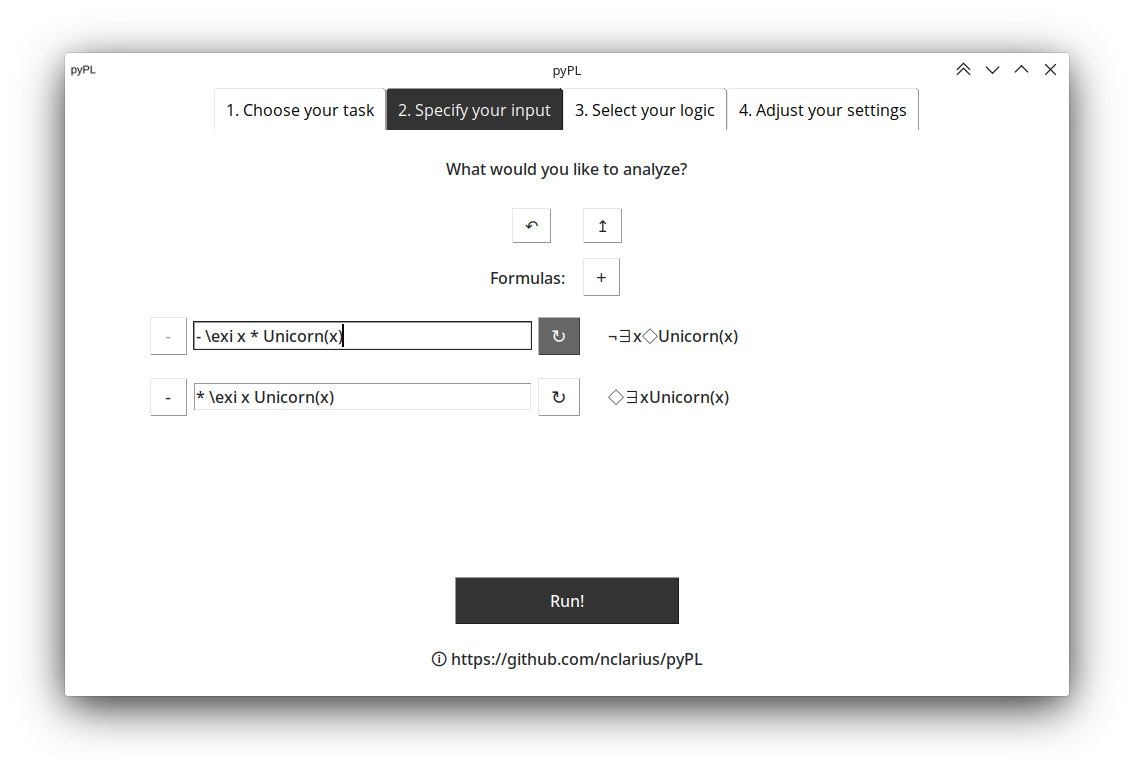
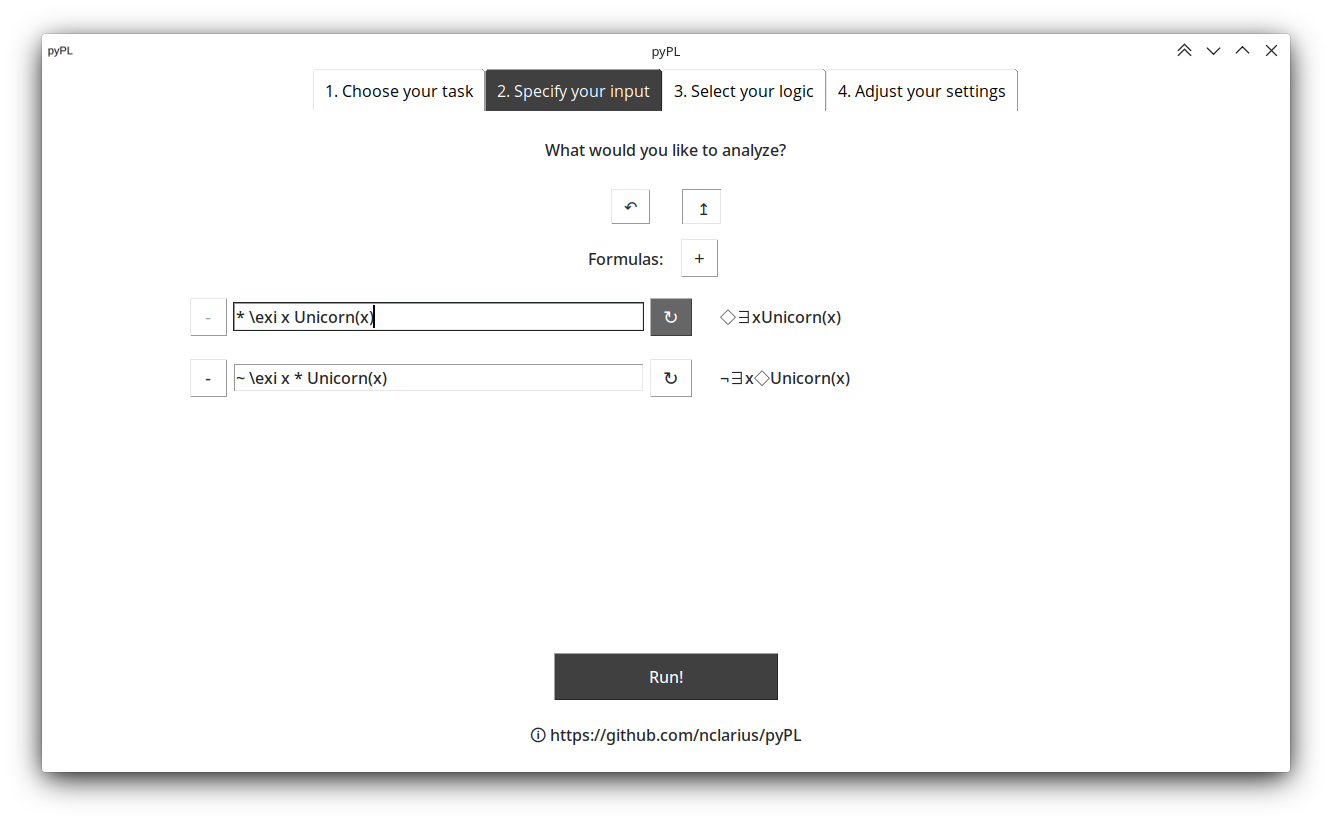
update screenshots

Changed region(s): [[0.0, 0.031, 0.9877, 0.9935], [0.5556, 0.4968, 0.6481, 0.5278], [0.463, 0.4968, 0.4938, 0.5278]]

diff --git a/gui.py b/gui.py
@@ -83,7 +83,7 @@ class PyPLGUI(tk.Frame):
         self.root.title("pyPL")
         icon_path = os.path.join(os.path.dirname(__file__), "icon.png")
         self.root.tk.call('wm', 'iconphoto', self.root._w, tk.PhotoImage(file=icon_path))
-        self.root.geometry("1333x750")
+        self.root.geometry("1244x700")
 
         # style
         self.style = ttk.Style()
@@ -848,7 +848,7 @@ class PyPLGUI(tk.Frame):
         mid = tk.Frame(tab, bg=white)
         mid.pack()
         mids = []
-        for i in range(11):
+        for i in range(9):
             if i in [2, 5]:
                 sep = tk.Frame(mid)
                 sep.pack(pady=10)
@@ -985,7 +985,6 @@ class PyPLGUI(tk.Frame):
                                   bg=white,
                                   text="Number of models to compute:")
         lbl_num_models.pack(in_=mids[m], side=tk.LEFT, padx=15)
-        m += 1
         btn_num_models_dn = tk.Button(tab,
                                       bg=white,
                                       text="-",
@@ -1017,7 +1016,6 @@ class PyPLGUI(tk.Frame):
                                   bg=white,
                                   text="Tableau tree size limit factor:")
         lbl_size_limit.pack(in_=mids[m], side=tk.LEFT, padx=15)
-        m += 1
         btn_size_limit_dn = tk.Button(tab,
                                       bg=white,
                                       text="-",
